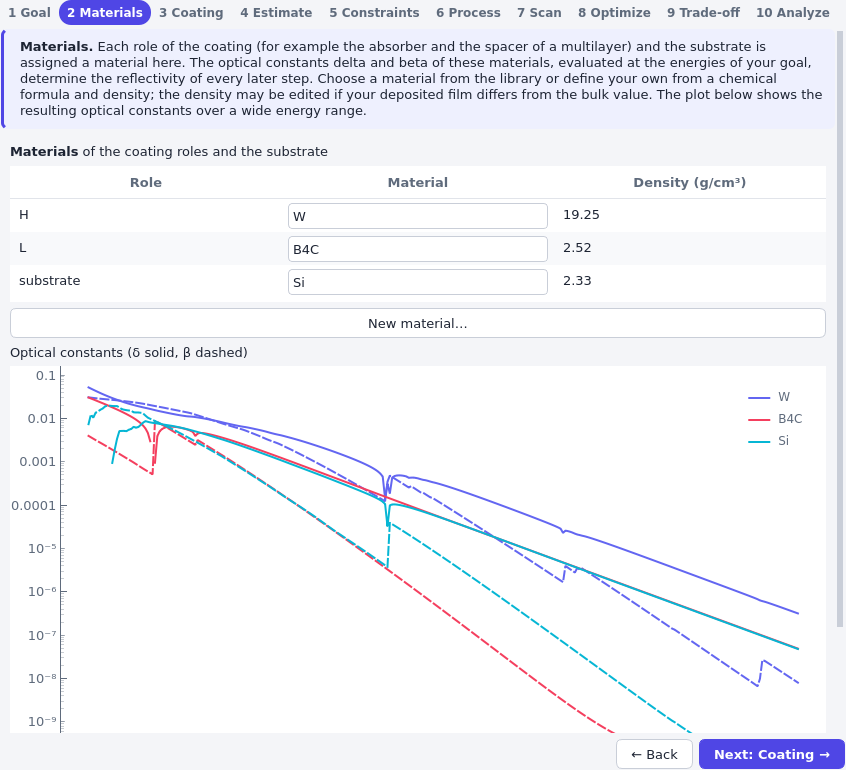
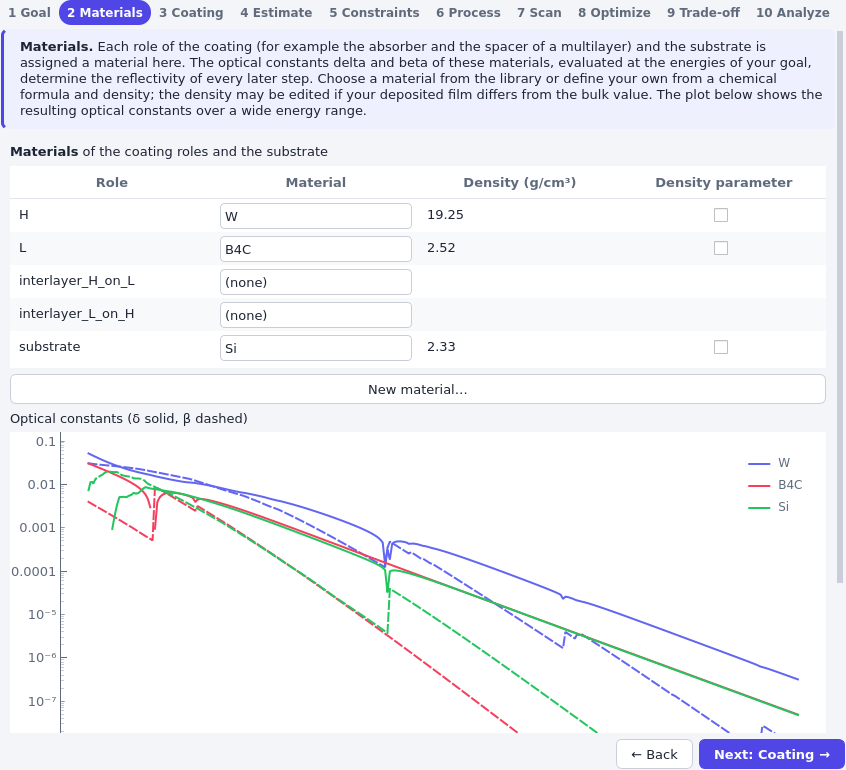
Make interlayers selectable and never ignore their thickness (#35)
Interlayers are built into the stack when their role has a material, but
the Materials page only listed roles that already had one, so in the
GUI an interlayer could not be added, and a thickness set for an
interlayer without material was silently ignored.

- The Materials page lists both interlayer roles of bilayer coatings
  with "(none)"; choosing a material adds the interlayer (start
  thickness 0.5 nm if it was 0), "(none)" removes it and resets the
  thickness.
- An interlayer thickness above 0 without a material raises
  CoatingBuildError, shown as a preview problem in the applications.
- Coating.without_material removes an optional role's material.

diff --git a/src/xstack/gui/common/materials.py b/src/xstack/gui/common/materials.py
@@ -27,12 +27,17 @@ from PySide6.QtWidgets import (
 from xstack.core.materials import Material, MaterialLibrary, default_library
 from xstack.core.parameters import Parameter
 from xstack.core.structure.coating import SUBSTRATE, Mirror, density_parameter_name
+from xstack.core.structure.coatings.bilayer import INTERLAYER_ROLES
 from xstack.gui.common.pages import StepPage, StructureCommands
 from xstack.gui.common.style import PLOT_PALETTE as PALETTE
 
 __all__ = ["MaterialDialog", "MaterialsPage"]
 
 _SUBSTRATE = SUBSTRATE
+_NONE = "(none)"
+
+INTERLAYER_START = 0.5
+"""Thickness in nm given to an interlayer that gets a material while its thickness is 0."""
 
 
 class MaterialDialog(QDialog):
@@ -145,10 +150,18 @@ class MaterialsPage(StepPage):
         self._mirror = state.mirror
         self._load()
 
-    def _roles(self) -> list[tuple[str, Material]]:
+    def _roles(self) -> list[tuple[str, Material | None]]:
+        """Roles with their materials; interlayers of bilayer coatings also without material."""
         if self._mirror is None:
             return []
-        return [*self._mirror.coating.materials.items(), (_SUBSTRATE, self._mirror.substrate)]
+        coating = self._mirror.coating
+        roles: list[tuple[str, Material | None]] = list(coating.materials.items())
+        roles += [
+            (role, None)
+            for role in INTERLAYER_ROLES
+            if role in coating.optional_roles and role not in coating.materials
+        ]
+        return [*roles, (_SUBSTRATE, self._mirror.substrate)]
 
     def _load(self) -> None:
         self._loading = True
@@ -162,13 +175,27 @@ class MaterialsPage(StepPage):
             role_item.setFlags(role_item.flags() & ~role_item.flags().ItemIsEditable)
             self.table.setItem(row, 0, role_item)
             combo = QComboBox()
-            combo.addItems(names if material.name in names else [material.name, *names])
-            combo.setCurrentText(material.name)
+            if role in INTERLAYER_ROLES:
+                combo.addItem(_NONE)
+            if material is not None and material.name not in names:
+                combo.addItem(material.name)
+            combo.addItems(names)
+            combo.setCurrentText(_NONE if material is None else material.name)
             combo.activated.connect(
                 lambda _=0, r=role, c=combo: self._material_chosen(r, c.currentText())
             )
-            combo.setToolTip(f"Material of the role '{role}'.")
+            combo.setToolTip(
+                f"Material of the role '{role}'."
+                if role not in INTERLAYER_ROLES
+                else f"Material of the {role.replace('_', ' ')}, or {_NONE} for no interlayer. "
+                f"Its thickness is the parameter t_{role}."
+            )
             self.table.setCellWidget(row, 1, combo)
+            if material is None:
+                empty = QTableWidgetItem("")
+                empty.setFlags(Qt.ItemFlag.NoItemFlags)
+                self.table.setItem(row, 2, empty)
+                continue
             parameter = self._density_parameter(role)
             density = material.density if parameter is None else parameter.value
             density_item = QTableWidgetItem(f"{density:g}")
@@ -204,12 +231,12 @@ class MaterialsPage(StepPage):
         )
         self.table.setFixedHeight(height + 4)
 
-    def _plot_constants(self, roles: list[tuple[str, Material]]) -> None:
+    def _plot_constants(self, roles: list[tuple[str, Material | None]]) -> None:
         self.plot.clear()
         energy = np.logspace(np.log10(100.0), np.log10(1e5), 300)
         shown: set[Material] = set()
         for i, (_, material) in enumerate(roles):
-            if material in shown or material.is_vacuum:
+            if material is None or material in shown or material.is_vacuum:
                 continue
             shown.add(material)
             try:
@@ -236,13 +263,39 @@ class MaterialsPage(StepPage):
             self.commandRequested.emit(self.commands.set_coating(coating))
 
     def _material_chosen(self, role: str, name: str) -> None:
-        if name in self.library:
+        if self._mirror is None:
+            return
+        if role in INTERLAYER_ROLES:
+            self._choose_interlayer(role, None if name == _NONE else self.library.get(name))
+        elif name in self.library:
             self._replace_material(role, self.library.get(name))
+
+    def _choose_interlayer(self, role: str, material: Material | None) -> None:
+        """Set or remove an interlayer material, keeping its thickness consistent.
+
+        Without a material the thickness is set to 0; a new material with zero thickness starts
+        at `INTERLAYER_START` nm, so that the interlayer appears in the stack.
+        """
+        assert self._mirror is not None
+        coating = self._mirror.coating
+        thickness = f"t_{role}"
+        if material is None:
+            coating = coating.without_material(role).with_parameter(thickness, value=0.0)
+        else:
+            coating = coating.with_material(role, material)
+            if (
+                coating.parameters[thickness].value == 0.0
+                and not coating.parameters[thickness].expr
+            ):
+                coating = coating.with_parameter(thickness, value=INTERLAYER_START)
+        self.commandRequested.emit(self.commands.set_coating(coating))
 
     def _density_edited(self, item: QTableWidgetItem) -> None:
         if self._loading or item.column() != 2:
             return
         role, material = self._roles()[item.row()]
+        if material is None:
+            return
         parameter = self._density_parameter(role)
         try:
             value = float(item.text())

diff --git a/tests/gui/common/test_materials_interlayers.py b/tests/gui/common/test_materials_interlayers.py
@@ -1,0 +1,93 @@
+"""Interlayer materials on the shared Materials page and in the layer profile."""
+
+import pytest
+from PySide6.QtWidgets import QComboBox
+from pytestqt.qtbot import QtBot
+
+from xstack.design.project import Project, ProjectState
+from xstack.design.project.templates import new_state
+from xstack.gui.common.materials import INTERLAYER_START
+from xstack.gui.common.profile import LayerProfilePlot
+from xstack.gui.design.steps import MaterialsPage
+
+pytestmark = pytest.mark.gui
+
+
+def page_with(qtbot: QtBot, state: ProjectState) -> tuple[MaterialsPage, list[object]]:
+    page = MaterialsPage()
+    qtbot.addWidget(page)
+    commands: list[object] = []
+    page.commandRequested.connect(commands.append)
+    page.set_state(state)
+    return page, commands
+
+
+def rows(page: MaterialsPage) -> dict[str, int]:
+    return {page.table.item(r, 0).text(): r for r in range(page.table.rowCount())}
+
+
+def choose(page: MaterialsPage, role: str, name: str) -> None:
+    combo = page.table.cellWidget(rows(page)[role], 1)
+    assert isinstance(combo, QComboBox)
+    combo.setCurrentText(name)
+    combo.activated.emit(combo.currentIndex())
+
+
+def apply(state: ProjectState, command: object) -> ProjectState:
+    project = Project(state)
+    project.execute(command)  # type: ignore[arg-type]
+    return project.state
+
+
+def test_interlayer_roles_listed_without_material(qtbot: QtBot) -> None:
+    page, _ = page_with(qtbot, new_state("periodic"))
+    assert list(rows(page)) == ["H", "L", "interlayer_H_on_L", "interlayer_L_on_H", "substrate"]
+    combo = page.table.cellWidget(rows(page)["interlayer_H_on_L"], 1)
+    assert isinstance(combo, QComboBox)
+    assert combo.currentText() == "(none)"
+
+
+def test_single_layer_has_no_interlayer_rows(qtbot: QtBot) -> None:
+    page, _ = page_with(qtbot, new_state("single_layer"))
+    assert list(rows(page)) == ["M", "substrate"]
+
+
+def test_choosing_an_interlayer_adds_it_to_the_stack(qtbot: QtBot) -> None:
+    state = new_state("periodic")
+    page, commands = page_with(qtbot, state)
+    choose(page, "interlayer_H_on_L", "WSi2")
+    state = apply(state, commands[-1])
+    assert state.mirror is not None
+    coating = state.mirror.coating
+    assert coating.materials["interlayer_H_on_L"].name == "WSi2"
+    assert coating.parameters["t_interlayer_H_on_L"].value == INTERLAYER_START
+    tags = [layer.tag for layer in state.mirror.stack().layers]
+    assert any(tag.endswith("interlayer_H_on_L") for tag in tags)
+
+
+def test_choosing_none_removes_interlayer_and_thickness(qtbot: QtBot) -> None:
+    state = new_state("periodic")
+    page, commands = page_with(qtbot, state)
+    choose(page, "interlayer_L_on_H", "WSi2")
+    state = apply(state, commands[-1])
+    page.set_state(state)
+    choose(page, "interlayer_L_on_H", "(none)")
+    state = apply(state, commands[-1])
+    assert state.mirror is not None
+    assert "interlayer_L_on_H" not in state.mirror.coating.materials
+    assert state.mirror.coating.parameters["t_interlayer_L_on_H"].value == 0.0
+    state.mirror.stack()
+
+
+def test_layer_profile_shows_interlayers(qtbot: QtBot) -> None:
+    state = new_state("periodic")
+    page, commands = page_with(qtbot, state)
+    choose(page, "interlayer_H_on_L", "WSi2")
+    state = apply(state, commands[-1])
+    assert state.mirror is not None
+    plot = LayerProfilePlot()
+    qtbot.addWidget(plot)
+    plot.set_stack(state.mirror.stack())
+    first = plot.graphics.getItem(0, 0)
+    legend = [label.text for _, label in first.legend.items]
+    assert "WSi2" in legend

diff --git a/tests/core/structure/test_coatings.py b/tests/core/structure/test_coatings.py
@@ -217,12 +217,27 @@ class TestPeriodicBasics:
         c = Periodic.create(W, SI, N=free(10, 5, 20), d=free(4.0, 3.0, 5.0))
         assert c.parameters.free_names() == ("N", "d")
 
-    def test_interlayer_thickness_ignored_without_material(self) -> None:
-        c = Periodic.create(
-            W, SI, N=2, d=5.0, gamma=0.4, t_interlayer_H_on_L=1.0, t_interlayer_L_on_H=1.0
-        )
+    def test_interlayer_thickness_without_material_is_an_error(self) -> None:
+        c = Periodic.create(W, SI, N=2, d=5.0, gamma=0.4, t_interlayer_H_on_L=1.0)
+        with pytest.raises(CoatingBuildError, match=r"t_interlayer_H_on_L is 1 nm.*no material"):
+            c.layers()
+
+    def test_zero_interlayer_thickness_without_material(self) -> None:
+        c = Periodic.create(W, SI, N=2, d=5.0, gamma=0.4)
         assert len(c.layers()) == 4
-        assert thicknesses(c.layers()[:2]) == pytest.approx([2.0, 3.0])
+
+    def test_graded_interlayer_thickness_without_material_is_an_error(self) -> None:
+        c = DepthGraded.create(W, SI, N=5, d_min=3.0, d_max=6.0, c=0.25, t_interlayer_L_on_H=0.4)
+        with pytest.raises(CoatingBuildError, match="t_interlayer_L_on_H"):
+            c.layers()
+
+    def test_without_material_removes_optional_role(self) -> None:
+        c = Periodic.create(W, SI, N=2, d=5.0, gamma=0.4, interlayers={"interlayer_H_on_L": WSI2})
+        removed = c.without_material("interlayer_H_on_L")
+        assert "interlayer_H_on_L" not in removed.materials
+        assert removed.without_material("interlayer_H_on_L") == removed
+        with pytest.raises(ValueError, match="requires a material"):
+            c.without_material("H")
 
 
 class TestPeriodicInterlayers:

diff --git a/tests/gui/design/test_steps.py b/tests/gui/design/test_steps.py
@@ -76,11 +76,12 @@ def choose(combo: QComboBox, text: str) -> None:
 
 def test_materials_rows(qtbot: QtBot) -> None:
     page, _ = make_page(qtbot, MaterialsPage, new_state("periodic"))
-    assert page.table.rowCount() == 3
-    roles = [page.table.item(r, 0).text() for r in range(3)]
-    assert roles == ["H", "L", "substrate"]
+    assert page.table.rowCount() == 5
+    roles = [page.table.item(r, 0).text() for r in range(5)]
+    assert roles == ["H", "L", "interlayer_H_on_L", "interlayer_L_on_H", "substrate"]
     assert combo_at(page, 0, 1).currentText() == "W"
-    assert combo_at(page, 2, 1).currentText() == "Si"
+    assert combo_at(page, 2, 1).currentText() == "(none)"
+    assert combo_at(page, 4, 1).currentText() == "Si"
 
 
 def test_materials_choose_coating_material(qtbot: QtBot) -> None:
@@ -96,7 +97,7 @@ def test_materials_choose_coating_material(qtbot: QtBot) -> None:
 def test_materials_choose_substrate(qtbot: QtBot) -> None:
     state = new_state("periodic")
     page, rec = make_page(qtbot, MaterialsPage, state)
-    choose(combo_at(page, 2, 1), "SiO2")
+    choose(combo_at(page, 4, 1), "SiO2")
     new = rec.applied(state)
     assert new.mirror is not None
     assert new.mirror.substrate.name == "SiO2"

diff --git a/src/xstack/core/structure/coating.py b/src/xstack/core/structure/coating.py
@@ -189,6 +189,24 @@ class Coating(ABC):
         roles[role] = material
         return replace(self, material_roles=tuple(roles.items()))
 
+    def without_material(self, role: str) -> Self:
+        """Return a copy without the material of an optional role (e.g. an interlayer).
+
+        Args:
+            role: Optional role name.
+
+        Returns:
+            The modified coating; unchanged if the role has no material.
+
+        Raises:
+            ValueError: If the role is required.
+        """
+        if role in self.roles:
+            raise ValueError(f"{type(self).__name__} requires a material for role {role!r}")
+        return replace(
+            self, material_roles=tuple((r, m) for r, m in self.material_roles if r != role)
+        )
+
     def renamed(self, name: str) -> Self:
         """Return a copy with a different name.
 

diff --git a/src/xstack/core/structure/coatings/bilayer.py b/src/xstack/core/structure/coatings/bilayer.py
@@ -117,8 +117,15 @@ def bilayer_layers(
         Two to four layers.
 
     Raises:
-        CoatingBuildError: If the thicknesses would be negative.
+        CoatingBuildError: If the thicknesses would be negative, or an interlayer has a positive
+            thickness but no material.
     """
+    for role in INTERLAYER_ROLES:
+        if values[f"t_{role}"] > 0.0 and role not in materials:
+            raise CoatingBuildError(
+                f"{tag}: t_{role} is {values[f't_{role}']:g} nm, but the interlayer has no "
+                "material; choose one or set the thickness to 0"
+            )
     t_honl = values["t_interlayer_H_on_L"] if "interlayer_H_on_L" in materials else 0.0
     t_lonh = values["t_interlayer_L_on_H"] if "interlayer_L_on_H" in materials else 0.0
     t_h = gamma * period

diff --git a/docs/gui_design.md b/docs/gui_design.md
@@ -112,7 +112,9 @@ primary button variant.
   the blocks: *Add fixed-angle target*, *Add fixed-energy target*. **Combine targets** selects
   *Average reflectivity* (curves averaged, one figure of merit) or *Average figure of merit* (one figure
   of merit per target, averaged); a text below it explains the selected mode.
-- **Materials**: table of the material of each coating role and of the substrate, with density (editable)
+- **Materials**: table of the material of each coating role and of the substrate (bilayer coatings
+  also list both interlayer roles; *(none)* means no interlayer, and choosing a material gives an
+  interlayer of zero thickness a start thickness of 0.5 nm), with density (editable)
   and *Density parameter*, which makes the density a parameter (`rho_<role>`) that appears in the
   parameter table (the density cell then edits its value); a dialog to create a material (name, chemical
   formula, density), and a plot of δ (solid) and β (dashed) for the materials in use.

diff --git a/docs/guide/quickstart_design_gui.md b/docs/guide/quickstart_design_gui.md
@@ -84,6 +84,13 @@ reflectivity each interface contributes, and β (the absorption) limits how many
 W/B4C has high contrast and still low absorption for Cu Kα, hence its use. See
 [optical constants](../physics_background.md) for the background.
 
+The rows *interlayer_H_on_L* and *interlayer_L_on_H* describe layers that form at the interfaces
+during deposition, for example a WSi₂ or W–C mixture. *(none)* means no interlayer. Choosing a material
+adds an interlayer of that material between every pair of layers on that side; its thickness is the
+parameter `t_interlayer_H_on_L` or `t_interlayer_L_on_H` on the **Coating** step (it starts at 0.5 nm)
+and counts towards the period. Interlayers are part of the stack: they appear in the layer profile and
+change the reflectivity. Keep them at *(none)* for this quick start.
+
 ## 4. Coating: the parameters
 
 ![Coating step](images/design_coating.png)

diff --git a/docs/architecture_core.md b/docs/architecture_core.md
@@ -300,7 +300,7 @@ is deposited on L; thickness `t_interlayer_H_on_L`) and `interlayer_L_on_H` (whe
 thickness `t_interlayer_L_on_H`). Interlayers count towards the period:
 d = t_H + t_L + t_interlayer_H_on_L + t_interlayer_L_on_H. Each interlayer replaces the roughness of the
 interface it sits in. The bilayer module enforces bounds: thickness and period ≤ 100 nm, roughness ≤ 5 nm,
-N ≤ 1000.
+N ≤ 1000. An interlayer thickness above 0 without a material for its role raises `CoatingBuildError`; `Coating.without_material(role)` removes an optional material.
 
 Grading laws (`grading_laws` registry: `power_law`, `linear`) define the period of each bilayer of a
 depth-graded coating. Γ is interpolated linearly from `gamma_top` to `gamma_bottom`.
